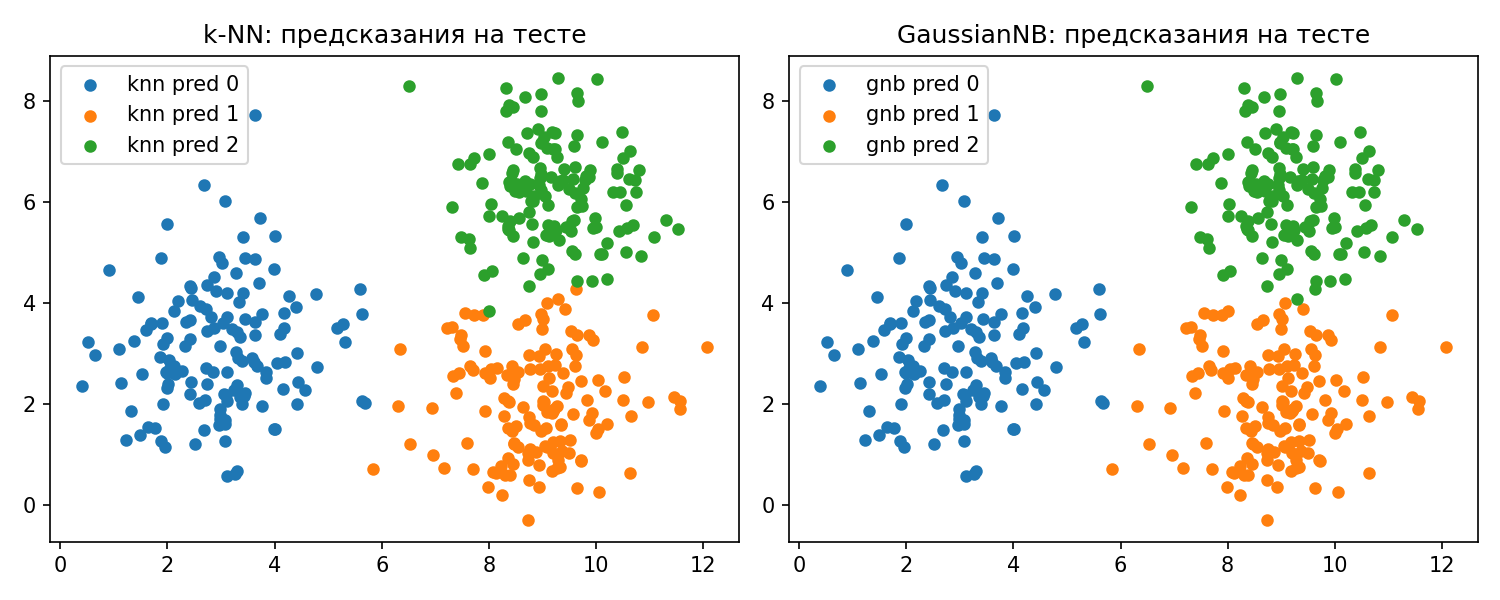
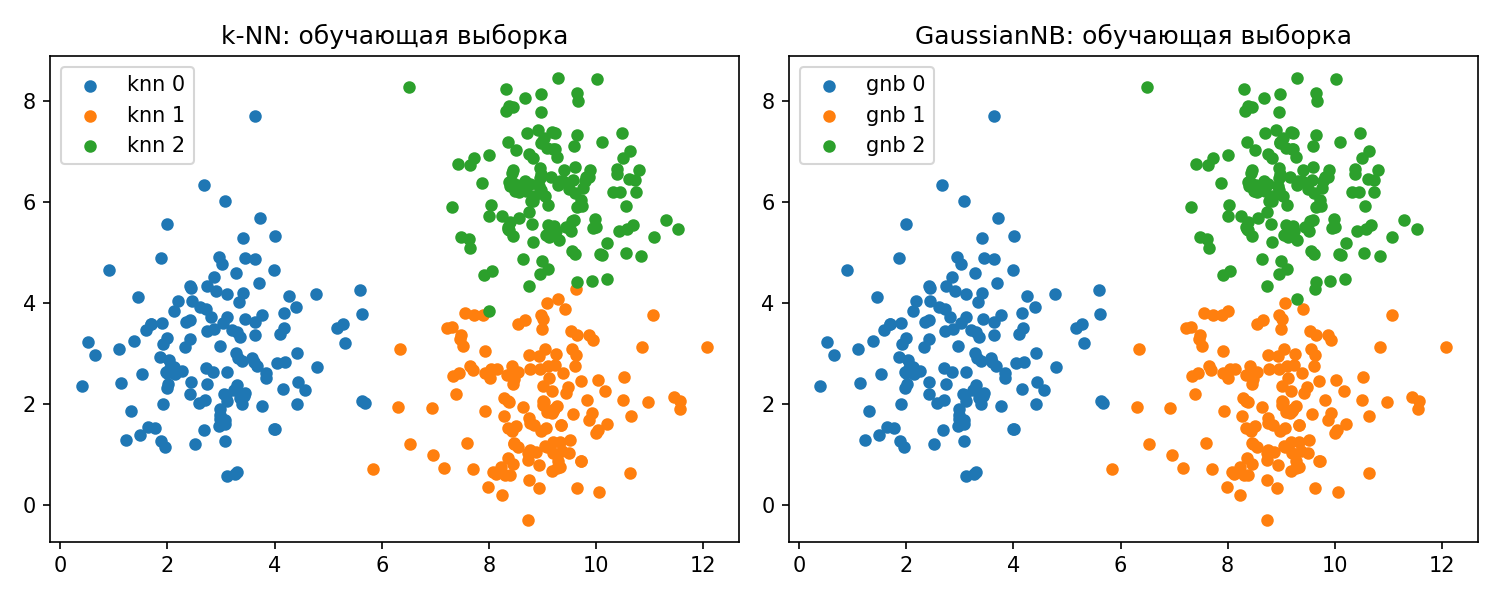
fix(labs/10): Fix some things

diff --git a/labs/10/src/main.py b/labs/10/src/main.py
@@ -7,6 +7,9 @@ from sklearn.neighbors import KNeighborsClassifier
 from sklearn.naive_bayes import GaussianNB
 from sklearn.metrics import classification_report, confusion_matrix, accuracy_score
 
+from console import print_classification_result, print_cluster_correspondence
+from plot import plot_classification_predictions, plot_clusters
+
 
 # Генерация данных
 def generate_data(n=200, random_state=42):
@@ -36,97 +39,6 @@ def run_kmeans(X, n_clusters=3, random_state=42):
     labels = kmeans.fit_predict(X)
     centers = kmeans.cluster_centers_
     return labels, centers
-
-
-# Таблица соответствия между истинными метками и кластерами KMeans
-def print_cluster_correspondence(y_true, kmeans_labels, df=None):
-    """
-    Создает и печатает таблицу соответствия между истинными метками
-    и найденными кластерами KMeans.
-    """
-    # Создаем DataFrame для анализа соответствия
-    correspondence_df = pd.DataFrame({
-        'true_label': y_true,
-        'kmeans_cluster': kmeans_labels
-    })
-
-    # Создаем кросс-таблицу (contingency table)
-    cross_tab = pd.crosstab(
-        correspondence_df['true_label'],
-        correspondence_df['kmeans_cluster'],
-        margins=True,
-        margins_name="Total"
-    )
-
-    # Добавляем проценты по строкам
-    row_percent = pd.crosstab(
-        correspondence_df['true_label'],
-        correspondence_df['kmeans_cluster'],
-        normalize='index'
-    ) * 100
-
-    print("\n" + "=" * 60)
-    print("ТАБЛИЦА СООТВЕТСТВИЯ: Истинные метки vs KMeans кластеры")
-    print("=" * 60)
-
-    print("\nАбсолютные частоты:")
-    print(cross_tab.to_string())
-
-    print("\n\nПроцентное распределение по строкам (истинные метки -> кластеры):")
-    for true_label in row_percent.index:
-        print(f"\nИстинная метка {true_label}:")
-        for cluster in row_percent.columns:
-            percent = row_percent.loc[true_label, cluster]
-            if percent > 0:  # Показываем только ненулевые значения
-                print(f"  -> Кластер {cluster}: {percent:.1f}%")
-
-    # Определяем доминирующее соответствие
-    print("\n\nДОМИНИРУЮЩЕЕ СООТВЕТСТВИЕ:")
-    mapping = {}
-    for true_label in np.unique(y_true):
-        mask = y_true == true_label
-        cluster_counts = pd.Series(kmeans_labels[mask]).value_counts()
-        if len(cluster_counts) > 0:
-            dominant_cluster = cluster_counts.idxmax()
-            count = cluster_counts.max()
-            total = mask.sum()
-            percentage = 100 * count / total
-            mapping[true_label] = dominant_cluster
-            print(f"Истинная метка {true_label} -> Кластер {dominant_cluster}: "
-                  f"{count}/{total} ({percentage:.1f}%)")
-
-    # Проверка уникальности соответствия
-    if len(set(mapping.values())) == len(mapping):
-        print("\n✓ Соответствие взаимно-однозначное (биекция)")
-    else:
-        print("\n⚠ Внимание: несколько истинных меток соответствуют одному кластеру")
-
-    return cross_tab, row_percent, mapping
-
-
-# Визуализация кластеров
-def plot_clusters(x, y_true, kmeans_labels, centers, filename="kmeans_result.png"):
-    plt.figure(figsize=(12, 5))
-
-    # Истинные метки
-    plt.subplot(1, 2, 1)
-    for lab in np.unique(y_true):
-        mask = y_true == lab
-        plt.scatter(x[mask, 0], x[mask, 1], s=15, label=f"true {lab}")
-    plt.title("Истинные метки")
-    plt.legend()
-
-    # Найденные кластеры
-    plt.subplot(1, 2, 2)
-    for lab in np.unique(kmeans_labels):
-        mask = kmeans_labels == lab
-        plt.scatter(x[mask, 0], x[mask, 1], s=15, label=f"km {lab}")
-    plt.scatter(centers[:, 0], centers[:, 1], marker='X', s=200, edgecolor='k', linewidth=1.5, label='centers')
-    plt.title("KMeans: найденные кластеры")
-    plt.legend()
-
-    plt.tight_layout()
-    plt.savefig(filename, dpi=150)
 
 
 # Классификация k-NN и Naive Bayes
@@ -175,28 +87,6 @@ def evaluate_classification(y_test, y_pred_knn, y_pred_gnb, save_csv="classifica
     return results, cm_knn, cm_gnb
 
 
-# Визуализация предсказаний классификаторов
-def plot_classification_predictions(x_test, y_pred_knn, y_pred_gnb, filename="classification_predictions.png"):
-    plt.figure(figsize=(10, 4))
-
-    plt.subplot(1, 2, 1)
-    for lab in np.unique(y_pred_knn):
-        mask = y_pred_knn == lab
-        plt.scatter(x_test[mask, 0], x_test[mask, 1], s=25, label=f"knn pred {lab}")
-    plt.title("k-NN: предсказания на тесте")
-    plt.legend()
-
-    plt.subplot(1, 2, 2)
-    for lab in np.unique(y_pred_gnb):
-        mask = y_pred_gnb == lab
-        plt.scatter(x_test[mask, 0], x_test[mask, 1], s=25, label=f"gnb pred {lab}")
-    plt.title("GaussianNB: предсказания на тесте")
-    plt.legend()
-
-    plt.tight_layout()
-    plt.savefig(filename, dpi=150)
-
-
 # Основной сценарий
 if __name__ == "__main__":
     x, y_true, df = generate_data()
@@ -205,22 +95,13 @@ if __name__ == "__main__":
     plot_clusters(x, y_true, kmeans_labels, centers_km)
 
     # Добавлен вызов функции печати таблицы соответствия
-    cross_tab, row_percent, mapping = print_cluster_correspondence(y_true, kmeans_labels, df)
+    cross_tab, row_percent, mapping = print_cluster_correspondence(y_true, kmeans_labels)
 
     x_test, y_test, y_pred_knn, y_pred_gnb, y_train_knn, y_train_gnb, x_train = classify_knn_gnb(x, y_true)
     results, cm_knn, cm_gnb = evaluate_classification(y_test, y_pred_knn, y_pred_gnb)
 
-    print("\n" + "=" * 60)
-    print("РЕЗУЛЬТАТЫ КЛАССИФИКАЦИИ")
-    print("=" * 60)
-    print("\n=== Results table ===")
-    print(results)
+    print_classification_result(results, cm_knn, cm_gnb)
 
-    print("\n=== Confusion matrix k-NN ===")
-    print(cm_knn)
-
-    print("\n=== Confusion matrix GaussianNB ===")
-    print(cm_gnb)
-
-    plot_classification_predictions(x_test, y_pred_knn, y_pred_gnb)
-    plot_classification_predictions(x_train, y_train_knn, y_train_gnb, "train_result.png")
+    plot_classification_predictions(x_test, y_pred_knn, y_pred_gnb, "предсказания на тесте",
+                                    "classification_predictions.png")
+    plot_classification_predictions(x_train, y_train_knn, y_train_gnb, "обучающая выборка", "train_result.png")

diff --git a/labs/10/src/console.py b/labs/10/src/console.py
@@ -1,0 +1,85 @@
+# Таблица соответствия между истинными метками и кластерами KMeans
+import numpy as np
+import pandas as pd
+
+
+def print_cluster_correspondence(y_true: np.ndarray, kmeans_labels: np.ndarray):
+    """
+    Создает и печатает таблицу соответствия между истинными метками
+    и найденными кластерами KMeans.
+    """
+    # Фикс порядка
+    remap = {0: 2, 1: 0, 2: 1}
+    y_true = np.array([remap[x] for x in y_true])
+    # Создаем DataFrame для анализа соответствия
+    correspondence_df = pd.DataFrame({
+        'true_label': y_true,
+        'kmeans_cluster': kmeans_labels
+    })
+
+    # Создаем кросс-таблицу (contingency table)
+    cross_tab = pd.crosstab(
+        correspondence_df['true_label'],
+        correspondence_df['kmeans_cluster'],
+        margins=True,
+        margins_name="Total"
+    )
+
+    # Добавляем проценты по строкам
+    row_percent = pd.crosstab(
+        correspondence_df['true_label'],
+        correspondence_df['kmeans_cluster'],
+        normalize='index'
+    ) * 100
+
+    print("\n" + "=" * 60)
+    print("ТАБЛИЦА СООТВЕТСТВИЯ: Истинные метки vs KMeans кластеры")
+    print("=" * 60)
+
+    print("\nАбсолютные частоты:")
+    print(cross_tab.to_string())
+
+    print("\n\nПроцентное распределение по строкам (истинные метки -> кластеры):")
+    for true_label in row_percent.index:
+        print(f"\nИстинная метка {true_label}:")
+        for cluster in row_percent.columns:
+            percent = row_percent.loc[true_label, cluster]
+            if percent > 0:  # Показываем только ненулевые значения
+                print(f"  -> Кластер {cluster}: {percent:.1f}%")
+
+    # Определяем доминирующее соответствие
+    print("\n\nДОМИНИРУЮЩЕЕ СООТВЕТСТВИЕ:")
+    mapping = {}
+    for true_label in np.unique(y_true):
+        mask = y_true == true_label
+        cluster_counts = pd.Series(kmeans_labels[mask]).value_counts()
+        if len(cluster_counts) > 0:
+            dominant_cluster = cluster_counts.idxmax()
+            count = cluster_counts.max()
+            total = mask.sum()
+            percentage = 100 * count / total
+            mapping[true_label] = dominant_cluster
+            print(f"Истинная метка {true_label} -> Кластер {dominant_cluster}: "
+                  f"{count}/{total} ({percentage:.1f}%)")
+
+    # Проверка уникальности соответствия
+    if len(set(mapping.values())) == len(mapping):
+        print("\n✓ Соответствие взаимно-однозначное (биекция)")
+    else:
+        print("\n⚠ Внимание: несколько истинных меток соответствуют одному кластеру")
+
+    return cross_tab, row_percent, mapping
+
+
+def print_classification_result(results: pd.DataFrame, cm_knn: np.ndarray, cm_gnb: np.ndarray):
+    print("\n" + "=" * 60)
+    print("РЕЗУЛЬТАТЫ КЛАССИФИКАЦИИ")
+    print("=" * 60)
+    print("\n=== Results table ===")
+    print(results)
+
+    print("\n=== Confusion matrix k-NN ===")
+    print(cm_knn)
+
+    print("\n=== Confusion matrix GaussianNB ===")
+    print(cm_gnb)

diff --git a/labs/10/src/plot.py b/labs/10/src/plot.py
@@ -1,0 +1,49 @@
+# Визуализация кластеров
+import numpy as np
+from matplotlib import pyplot as plt
+
+
+def plot_clusters(x, y_true, kmeans_labels, centers, filename="kmeans_result.png"):
+    plt.figure(figsize=(12, 5))
+
+    # Истинные метки
+    plt.subplot(1, 2, 1)
+    for lab in np.unique(y_true):
+        mask = y_true == lab
+        plt.scatter(x[mask, 0], x[mask, 1], s=15, label=f"true {lab}")
+    plt.title("Истинные метки")
+    plt.legend()
+
+    # Найденные кластеры
+    plt.subplot(1, 2, 2)
+    for lab in np.unique(kmeans_labels):
+        mask = kmeans_labels == lab
+        plt.scatter(x[mask, 0], x[mask, 1], s=15, label=f"km {lab}")
+    plt.scatter(centers[:, 0], centers[:, 1], marker='X', s=200, edgecolor='k', linewidth=1.5, label='centers')
+    plt.title("KMeans: найденные кластеры")
+    plt.legend()
+
+    plt.tight_layout()
+    plt.savefig(filename, dpi=150)
+
+
+# Визуализация предсказаний классификаторов
+def plot_classification_predictions(x, y_knn, y_gnb, title: str, filename: str):
+    plt.figure(figsize=(10, 4))
+
+    plt.subplot(1, 2, 1)
+    for lab in np.unique(y_knn):
+        mask = y_knn == lab
+        plt.scatter(x[mask, 0], x[mask, 1], s=25, label=f"knn {lab}")
+    plt.title(f"k-NN: {title}")
+    plt.legend()
+
+    plt.subplot(1, 2, 2)
+    for lab in np.unique(y_gnb):
+        mask = y_gnb == lab
+        plt.scatter(x[mask, 0], x[mask, 1], s=25, label=f"gnb {lab}")
+    plt.title(f"GaussianNB: {title}")
+    plt.legend()
+
+    plt.tight_layout()
+    plt.savefig(filename, dpi=150)
